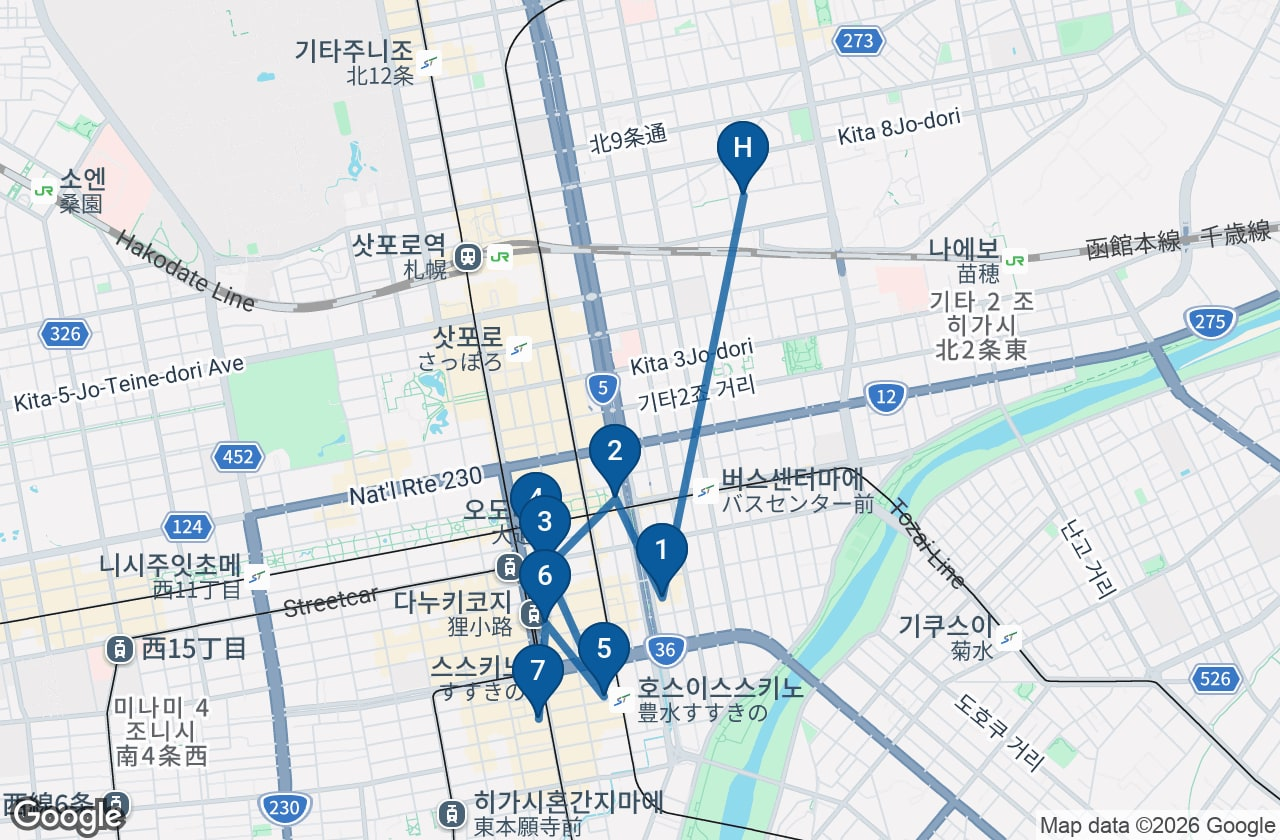
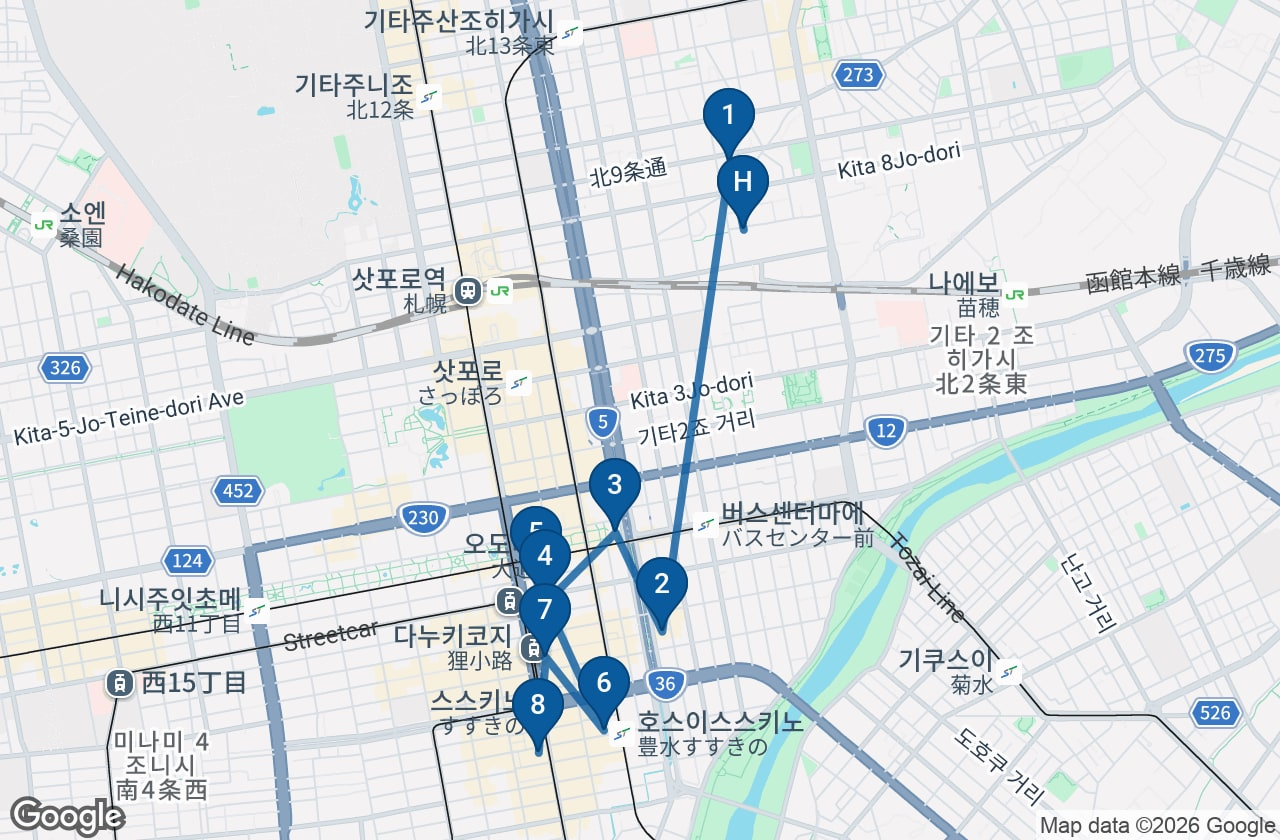
feat(jopt): 점심을 니조시장 카이센동 대신 숙소 옆 토리톤 스시(北8条光星店)로 — 도보 출발, 니조시장은 택시 7분, 이후 10분씩 이동

diff --git a/apps/web/src/app/jopt/today.tsx b/apps/web/src/app/jopt/today.tsx
@@ -54,49 +54,50 @@ const STOPS: Stop[] = [
     key: 'taxi',
     time: '13:00',
     tag: 'move',
-    title: '숙소 출발 (택시)',
-    meta: '택시 10분 · ¥1,300 안팎 · 목적지 二条市場',
+    title: '숙소 출발 (도보 3분)',
+    meta: '北7条東4 → 北8条東5 토리톤 · 240m',
     desc: [
-      '여권을 꼭 챙기세요. 면세 카운터도, 위스키 정가 판매점의 1인 1병 확인도 전부 여권으로 합니다. 낮 20도에 흐림이고 밤에 약한 비가 올 수 있어서 얇은 겉옷 하나면 됩니다.',
+      '여권을 꼭 챙기세요. 면세 카운터도, 위스키 정가 판매점의 1인 1병 확인도 전부 여권으로 합니다. 낮 20도에 흐림이고 밤에 약한 비가 올 수 있어서 얇은 겉옷 하나면 됩니다. 토리톤은 대기가 길기로 유명해서 1시 전에 줄에 서는 게 좋습니다.',
     ],
-    map: '二条市場 札幌',
-    mapLabel: '니조시장까지 경로',
+    map: '回転寿しトリトン 北8条光星店',
+    mapLabel: '토리톤까지 경로',
   },
   {
-    key: 'kaisendon',
-    time: '13:15',
-    until: '14:10',
+    key: 'toriton',
+    time: '13:05',
+    until: '14:20',
     tag: 'food',
-    title: '다이이치 카이센마루 · 카이센동',
-    img: '/jopt/today/kaisendon.jpg',
-    alt: '다이이치 카이센마루의 카이센동',
-    credit: '김민재',
-    meta: '니조시장 안 (南3条東1-8-2) · 화 07:00-15:00 · 카이센동 31종 · 1인 ¥4,999 이하 · 구글 4.6 (698) · 050-5456-4038',
+    title: '토리톤 스시 · 北8条光星店',
+    img: '/jopt/today/toriton.jpg',
+    alt: '토리톤 스시 카운터',
+    credit: 'Ben C',
+    meta: '北8条東5-19-1 · 11:00-22:00 · 회전초밥 · 구글 4.2 (4,902) · 011-374-8666',
     desc: [
-      '니조시장 안에 있는 카이센동 전문점입니다. 카이센동 31종이 있고 1인 예산은 5,000엔 안쪽입니다. 8명이 한 번에 앉기 어려우면 두 팀으로 나눠 들어가는 게 빠릅니다. 게, 성게, 연어알은 가격표가 붙은 것으로 고르세요.',
+      '숙소에서 걸어서 3분, 삿포로에서 제일 유명한 회전초밥입니다. 점심시간엔 30분에서 1시간 대기가 보통이라 입구 발권기에서 번호를 먼저 뽑고 기다리세요. 8명은 두 테이블로 나뉠 수 있습니다.',
+      '홋카이도 생선이 강점이라 연어, 가리비, 게, 성게 순으로 시키면 됩니다. 1인 예산은 3,000엔 안팎입니다.',
     ],
-    map: '第一海鮮丸 二条市場 札幌',
-    tel: '05054564038',
+    map: '回転寿しトリトン 北8条光星店',
+    tel: '0113748666',
   },
   {
     key: 'nijo',
-    time: '14:10',
-    until: '14:50',
+    time: '14:30',
+    until: '15:00',
     tag: 'walk',
     title: '니조시장 구경',
     img: '/jopt/today/nijo.jpg',
     alt: '니조시장 골목',
     credit: 'Franek Kosmider',
-    meta: '07:00-18:00 · 가게 대부분 17시 전후 마감',
+    meta: '토리톤에서 택시 7분 · ¥900 안팎 (도보 20분) · 07:00-17:00',
     desc: [
-      '점심 먹은 자리에서 바로 이어집니다. 시장은 7시부터 18시까지 열지만 가게 대부분이 17시 전후로 문을 닫습니다. 게와 멜론은 공항 면세보다 여기가 싸고 무거운 건 택배 접수가 됩니다.',
+      '토리톤에서 택시로 7분, 걸으면 20분입니다. 시장은 7시부터 18시까지 열지만 가게 대부분이 17시 전후로 문을 닫습니다. 게와 멜론은 공항 면세보다 여기가 싸고 무거운 건 택배 접수가 됩니다.',
     ],
     map: '二条市場 札幌',
   },
   {
     key: 'walk',
-    time: '14:40',
-    until: '15:40',
+    time: '15:00',
+    until: '15:50',
     tag: 'walk',
     title: '산책 · 니조시장에서 오도리공원',
     img: '/jopt/today/walk.jpg',
@@ -104,15 +105,15 @@ const STOPS: Stop[] = [
     credit: '楊傑銘',
     meta: '니조시장 → 소세이강 → 오도리공원 → 파르코 · 도보 약 1.5km · TV타워 전망대 09:00-22:00',
     desc: [
-      '카이센동을 먹고 바로 걷습니다. 니조시장에서 소세이강을 따라 오도리공원 동쪽 끝까지 10분이고, 거기 TV타워가 서 있습니다. 공원을 서쪽으로 한두 블록 걷다가 파르코로 내려가면 5분입니다.',
+      '니조시장을 보고 바로 걷습니다. 니조시장에서 소세이강을 따라 오도리공원 동쪽 끝까지 10분이고, 거기 TV타워가 서 있습니다. 공원을 서쪽으로 한두 블록 걷다가 파르코로 내려가면 5분입니다.',
       '전망대는 22시까지 열지만 낮에는 공원에서 올려다보는 걸로 충분합니다. 가을 단풍이 막 시작하는 때라 사진은 여기서.',
     ],
     map: 'さっぽろテレビ塔',
   },
   {
     key: 'parco',
-    time: '15:40',
-    until: '16:30',
+    time: '15:50',
+    until: '16:40',
     tag: 'shop',
     title: '삿포로 파르코',
     img: '/jopt/today/parco.jpg',
@@ -126,8 +127,8 @@ const STOPS: Stop[] = [
   },
   {
     key: 'mitsukoshi',
-    time: '16:30',
-    until: '17:30',
+    time: '16:40',
+    until: '17:40',
     tag: 'shop',
     title: '삿포로 미츠코시',
     img: '/jopt/today/mitsukoshi.jpg',
@@ -141,7 +142,7 @@ const STOPS: Stop[] = [
   },
   {
     key: 'free',
-    time: '17:30',
+    time: '17:40',
     until: '19:15',
     tag: 'walk',
     title: '다누키코지 상점가 · 자유 시간',
@@ -270,7 +271,7 @@ const INFO: InfoCard[] = [
     title: '예약 · 전화',
     lines: ['샤브샤브 레터스는 19:30에 8명으로 예약해 두었습니다.'],
     tels: [
-      { label: '다이이치 카이센마루', tel: '05054564038' },
+      { label: '토리톤 스시', tel: '0113748666' },
       { label: '샤브샤브 레터스', tel: '0112069779' },
       { label: '酒屋 C&C', tel: '0115181351' },
       { label: '맥주 박물관 투어', tel: '0117481876' },
@@ -327,10 +328,11 @@ const gmap = (q: string) =>
 /** 오늘 동선 전체를 구글맵 경로로(경유지 최대 9곳). */
 const ROUTE_URL =
   'https://www.google.com/maps/dir/?api=1' +
-  `&origin=${encodeURIComponent('二条市場 札幌')}` +
+  `&origin=${encodeURIComponent('回転寿しトリトン 北8条光星店')}` +
   `&destination=${encodeURIComponent('酒屋C&C ライラックビル 南5条西4丁目 札幌')}` +
   `&waypoints=${encodeURIComponent(
     [
+      '二条市場 札幌',
       'さっぽろテレビ塔',
       '札幌PARCO',
       '札幌三越',
@@ -508,10 +510,10 @@ export function TodayItinerary() {
             2026. 9. 22 (화)<small>삿포로 · 대회 3일차</small>
           </div>
           <p className={s.coverLead}>
-            오후 1시에 숙소에서 택시로 나가서 니조시장 카이센동으로 점심을 시작하고 오도리공원을
-            걸은 뒤 파르코와 미츠코시를 돌고, 다누키코지에서 쉬다가 저녁 7시 30분에 스스키노에서
-            샤브샤브를 먹습니다. 돈키호테에서 시세를 본 다음 酒屋 C&amp;C에서 위스키를 사고 택시로
-            돌아와 숙소에서 홀덤 캐시게임을 엽니다.
+            오후 1시에 숙소 옆 토리톤 스시로 점심을 시작하고, 니조시장과 오도리공원을 걸은 뒤
+            파르코와 미츠코시를 돌고, 다누키코지에서 쉬다가 저녁 7시 30분에 스스키노에서 샤브샤브를
+            먹습니다. 돈키호테에서 시세를 본 다음 酒屋 C&amp;C에서 위스키를 사고 택시로 돌아와
+            숙소에서 홀덤 캐시게임을 엽니다.
           </p>
           <div className={s.chips}>
             <span className={s.chip}>
@@ -556,8 +558,8 @@ export function TodayItinerary() {
           <div className={s.secHead}>
             <h2>동선 지도</h2>
             <small>
-              H 숙소 → 1 니조시장 → 2 TV타워 → 3 파르코 → 4 미츠코시 → 5 샤브샤브 → 6 돈키 → 7
-              C&amp;C
+              H 숙소 → 1 토리톤 → 2 니조시장 → 3 TV타워 → 4 파르코 → 5 미츠코시 → 6 샤브샤브 → 7
+              돈키 → 8 C&amp;C
             </small>
           </div>
           <a

diff --git a/apps/web/src/app/jopt/ui.tsx b/apps/web/src/app/jopt/ui.tsx
@@ -67,12 +67,12 @@ const PL = {
   },
   ario: { nm: '아리오 삿포로', lng: 141.3705, lat: 43.0715, map: 'アリオ札幌' },
   parco: { nm: '삿포로 파르코', lng: 141.3535, lat: 43.0589, map: '札幌PARCO' },
-  kaisen: {
-    nm: '다이이치 카이센마루 (카이센동)',
-    lng: 141.3585,
-    lat: 43.058,
-    map: '第一海鮮丸 二条市場 札幌',
-    tel: '05054564038',
+  toriton: {
+    nm: '토리톤 스시 (北8条光星店)',
+    lng: 141.3614,
+    lat: 43.0727,
+    map: '回転寿しトリトン 北8条光星店',
+    tel: '0113748666',
   },
   letus: {
     nm: '샤브샤브 레터스 스스키노점',
@@ -219,32 +219,32 @@ const DAYS: DayPlan[] = [
         p: 'house',
         t: '13:00',
         stay: '-',
-        mode: 'taxi',
-        mv: '택시 10분 · ¥1,300 안팎',
+        mode: 'walk',
+        mv: '도보 3분 · 240m',
         note: '여권 지참',
         badge: 'free',
       },
       {
-        p: 'kaisen',
-        t: '13:15',
-        stay: '55분',
-        mode: 'taxi',
-        mv: '택시 하차 · 니조시장 안',
-        note: '카이센동 31종 · 1인 ¥4,999 이하 · 8명이면 두 팀으로',
+        p: 'toriton',
+        t: '13:05',
+        stay: '75분',
+        mode: 'walk',
+        mv: '도보 3분',
+        note: '회전초밥 · 11:00-22:00 · 대기 30-60분 · 발권기 번호 먼저',
         badge: 'food',
       },
       {
         p: 'nijo',
-        t: '14:10',
-        stay: '40분',
-        mode: 'walk',
-        mv: '같은 자리',
+        t: '14:30',
+        stay: '30분',
+        mode: 'taxi',
+        mv: '택시 7분 · ¥900 안팎 (도보 20분)',
         note: '가게 대부분 17시 전후 마감',
         badge: 'free',
       },
       {
         p: 'tv',
-        t: '14:40',
+        t: '15:00',
         stay: '60분',
         mode: 'walk',
         mv: '니조시장 → 소세이강 → 오도리공원 도보 10분',
@@ -253,7 +253,7 @@ const DAYS: DayPlan[] = [
       },
       {
         p: 'parco',
-        t: '15:40',
+        t: '15:50',
         stay: '50분',
         mode: 'walk',
         mv: '오도리공원에서 도보 5분',
@@ -262,7 +262,7 @@ const DAYS: DayPlan[] = [
       },
       {
         p: 'mitsukoshi',
-        t: '16:30',
+        t: '16:40',
         stay: '60분',
         mode: 'walk',
         mv: '도보 2분 · 길 건너',
@@ -274,7 +274,7 @@ const DAYS: DayPlan[] = [
         t: '19:30',
         stay: '120분',
         mode: 'walk',
-        mv: '다누키코지 자유 시간(17:30-19:15) 뒤 도보 5분',
+        mv: '다누키코지 자유 시간(17:40-19:15) 뒤 도보 5분',
         note: '19:30 8명 예약 완료 · 1인 1냄비 · 평균 ¥3,500 · 011-206-9779',
         badge: 'food',
       },
